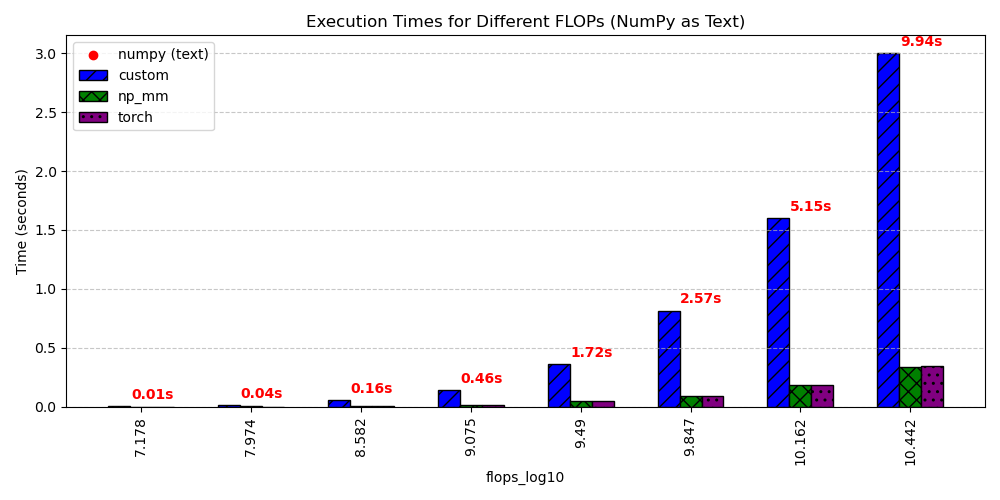
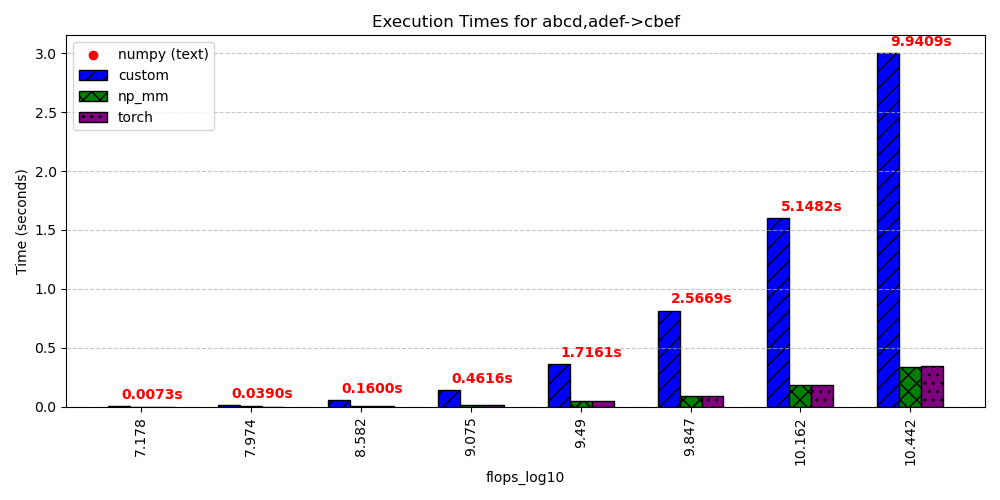
plots for flop experiments

diff --git a/data/plots_csv.py b/data/plots_csv.py
@@ -3,7 +3,7 @@ import numpy as np
 import pandas as pd
 
 # Load CSV data
-csv_file = "data_flops.csv"  # Replace with your actual file name
+csv_file = "data_flops_traces.csv"  # Replace with your actual file name
 df = pd.read_csv(csv_file)
 
 # Extract relevant data
@@ -31,21 +31,25 @@ for i, (method, hatch) in enumerate(zip(timing_methods, hatch_patterns)):
     )
 
 # Add numpy results as text above the bars
+
 fixed_offset = 0.02 * max(times.flatten())  # 2% of max value in dataset
 
 for i in range(len(df)):
     plt.text(
         x[i] + bar_width * 1.5,  # Position in the center of bars
         max(times[i]) + fixed_offset,  # Slightly above the highest bar
-        f"{numpy_times[i]:.2f}s",  # Format text
+        f"{numpy_times[i]:.4f}s",  # Format text
         color="red", fontsize=10, ha="center", fontweight="bold"
     )
-
 # Labels and title
 plt.scatter([], [], color="red", label="numpy (text)")
 plt.xlabel("flops_log10")
 plt.ylabel("Time (seconds)")
-plt.title("Execution Times for Different FLOPs (NumPy as Text)")
+plt.title("Execution Times for aabcd,adeef->bcf")
+#floats unopt abcd,adef->cbef
+# floats opt aabcd,adeef->dcf
+# batch abcd,adef->dbef
+# traces aabcd,adeef->bcf
 plt.xticks(x + bar_width, x_labels, rotation=90)  # Rotate x-ticks to ensure readability
 plt.legend()
 plt.grid(axis="y", linestyle="--", alpha=0.7)
